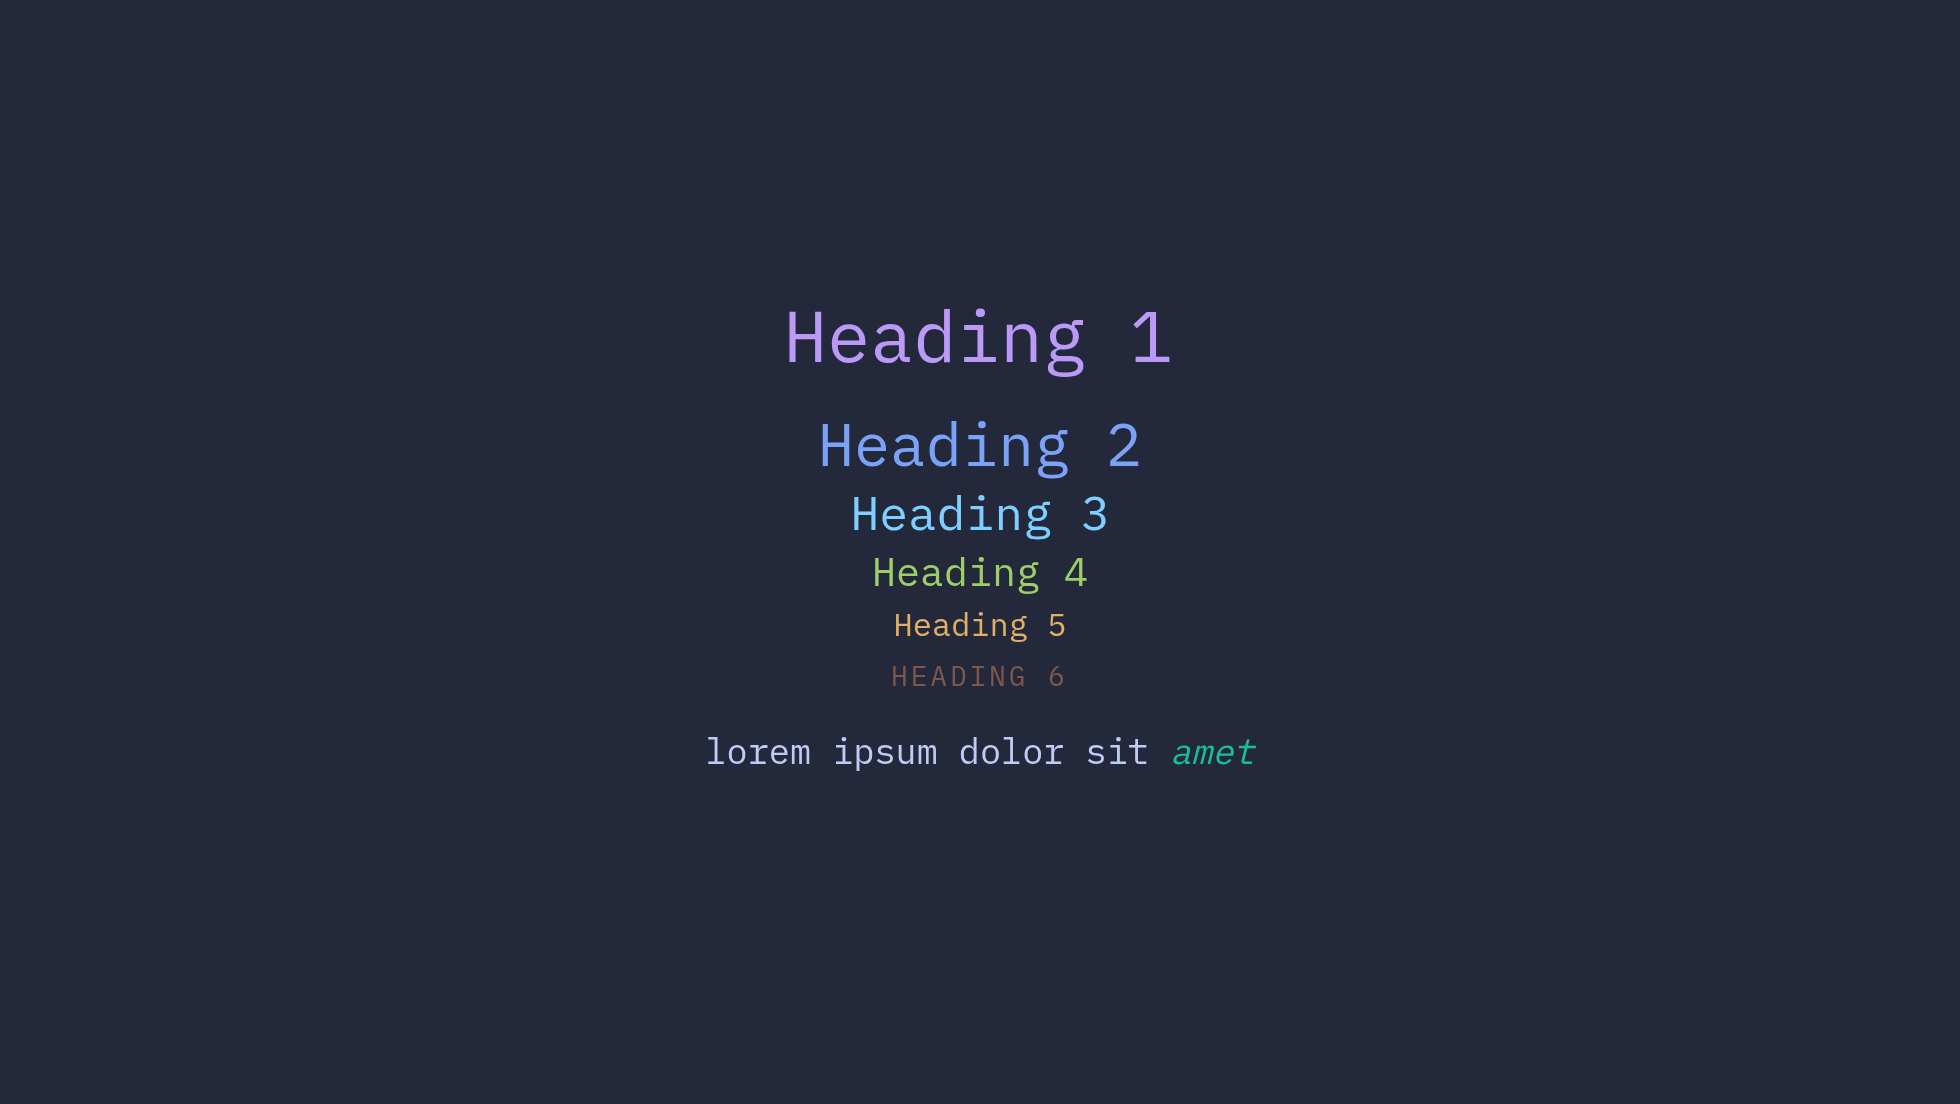
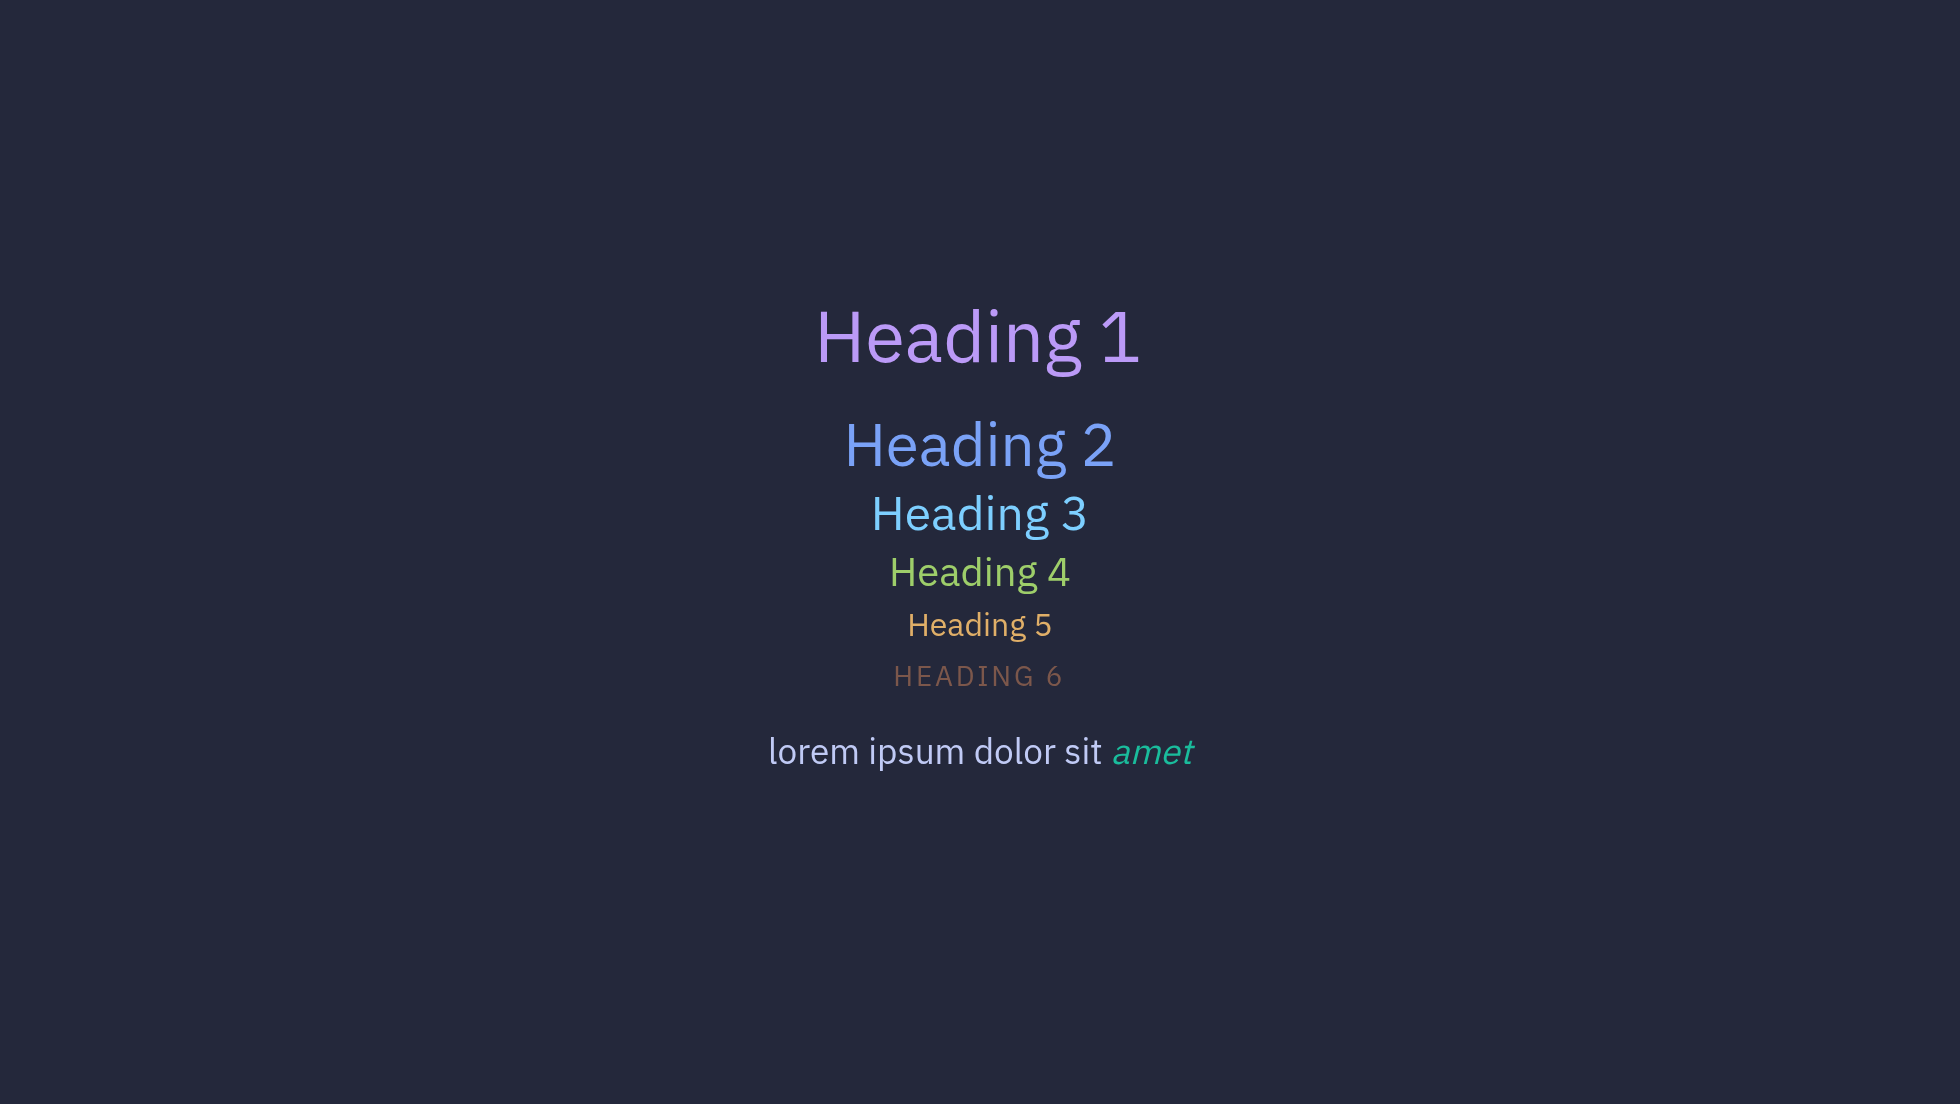
feat: use IBM Plex Sans for body and IBM Plex Mono for code, remove cover glow, refresh screenshots

Changed region(s): [[0.4046, 0.3696, 0.5913, 0.6159], [0.4046, 0.2772, 0.5913, 0.3388], [0.3735, 0.6467, 0.6224, 0.7083]]

diff --git a/styles/layouts.css b/styles/layouts.css
@@ -97,9 +97,3 @@ components; Slidev provides the markup and we style the layout classes. */
   margin-top: 0.5rem;
   color: var(--slidev-text-lighter);
 }
-
-/* Neon glow for the cover title */
-.slidev-layout.cover h1,
-.slidev-layout.intro h1 {
-  text-shadow: 0 0 0.4em color-mix(in srgb, var(--tn-primary) 55%, transparent);
-}

diff --git a/README.md b/README.md
@@ -53,16 +53,16 @@ Code blocks use the Shiki `tokyo-night` theme.
 
 Defaults (declared in `package.json` under `slidev.defaults.fonts`, loaded by Slidev from Google Fonts by family name):
 
-- Sans: [IBM Plex Mono](https://fonts.google.com/specimen/IBM+Plex+Mono)
-- Mono: [IBM Plex Mono](https://fonts.google.com/specimen/IBM+Plex+Mono)
+- Sans (body and UI): [IBM Plex Sans](https://fonts.google.com/specimen/IBM+Plex+Sans)
+- Mono (code only): [IBM Plex Mono](https://fonts.google.com/specimen/IBM+Plex+Mono)
 
-Override them in your own headmatter if you prefer, e.g. `fonts: { sans: 'IBM Plex Sans', mono: 'IBM Plex Mono' }`.
+Override them in your own headmatter if you prefer, e.g. `fonts: { sans: 'Your Sans', mono: 'Your Mono' }`.
 
 ## Layouts
 
 This theme uses Slidev's built-in layouts and styles them with the Tokyo Night palette (the same approach as `seriph` and `apple-basic`):
 
-- `cover` / `intro` : centred title slide
+- `cover` / `intro` : plain centred title slide (no background image or glow)
 - `section` : large title with a neon magenta accent bar
 - `fact` : one big number or phrase with a caption
 - `statement` : one bold sentence

diff --git a/.changeset/ibm-plex-sans-mono-fonts.md b/.changeset/ibm-plex-sans-mono-fonts.md
@@ -1,0 +1,5 @@
+---
+"slidev-theme-tokyo-night-storm": patch
+---
+
+Use IBM Plex Sans for body/UI and IBM Plex Mono for code only (Google Fonts), remove the cover title neon glow, and keep the cover plain with no background image. The images slide uses the full-height `image-right` layout.
